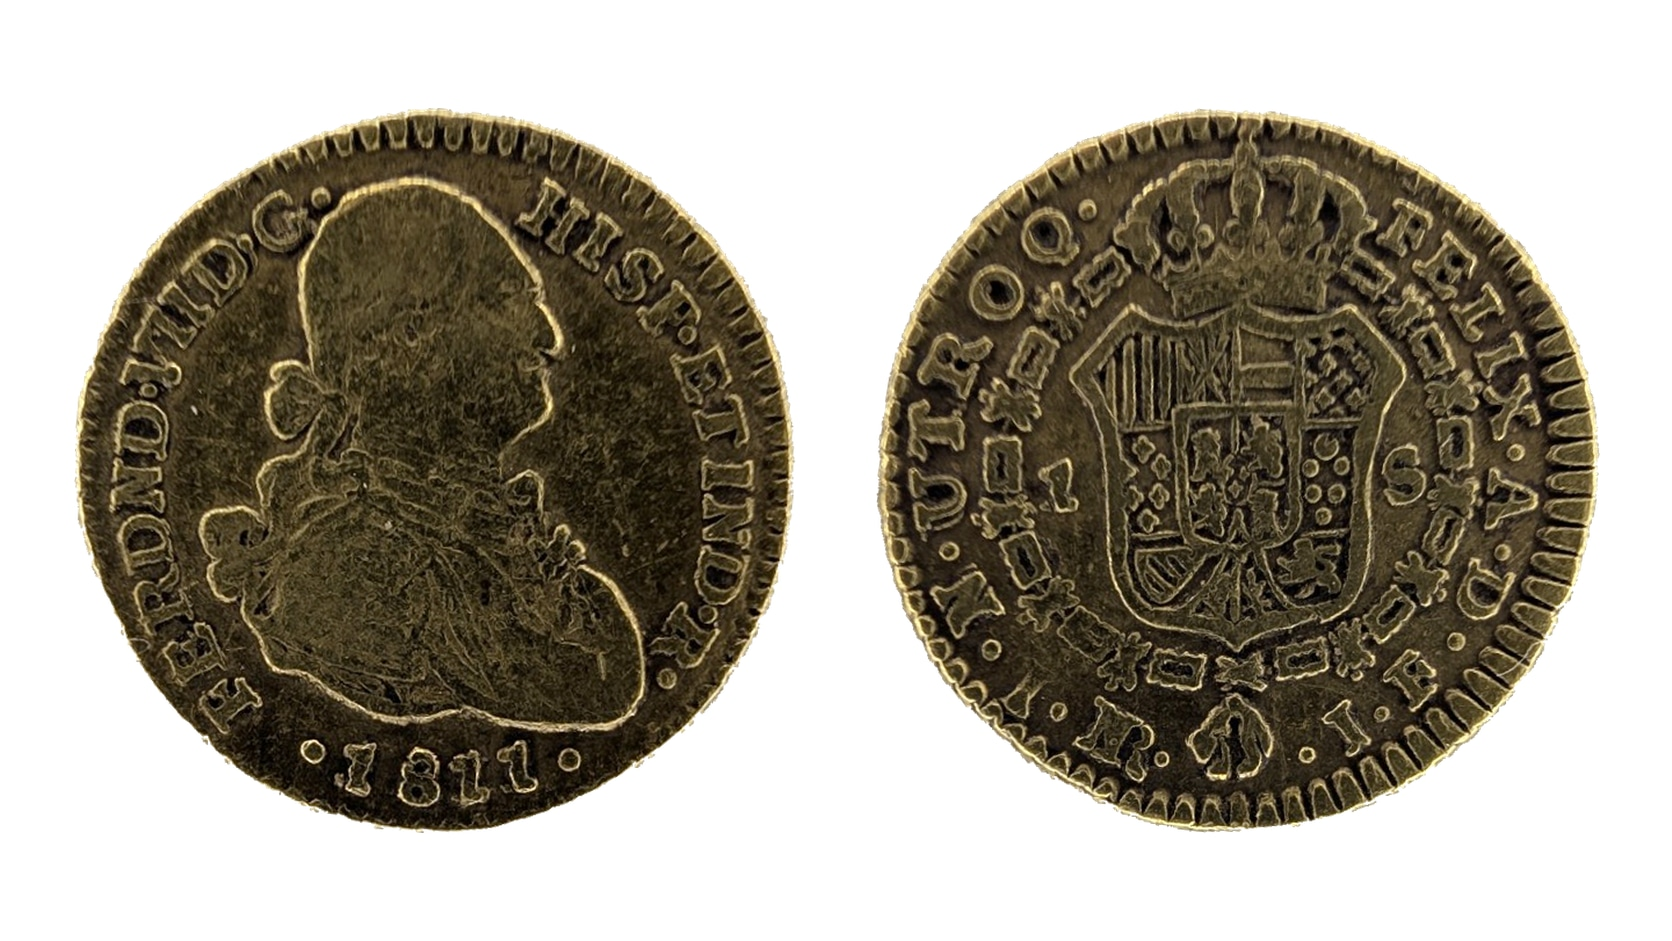
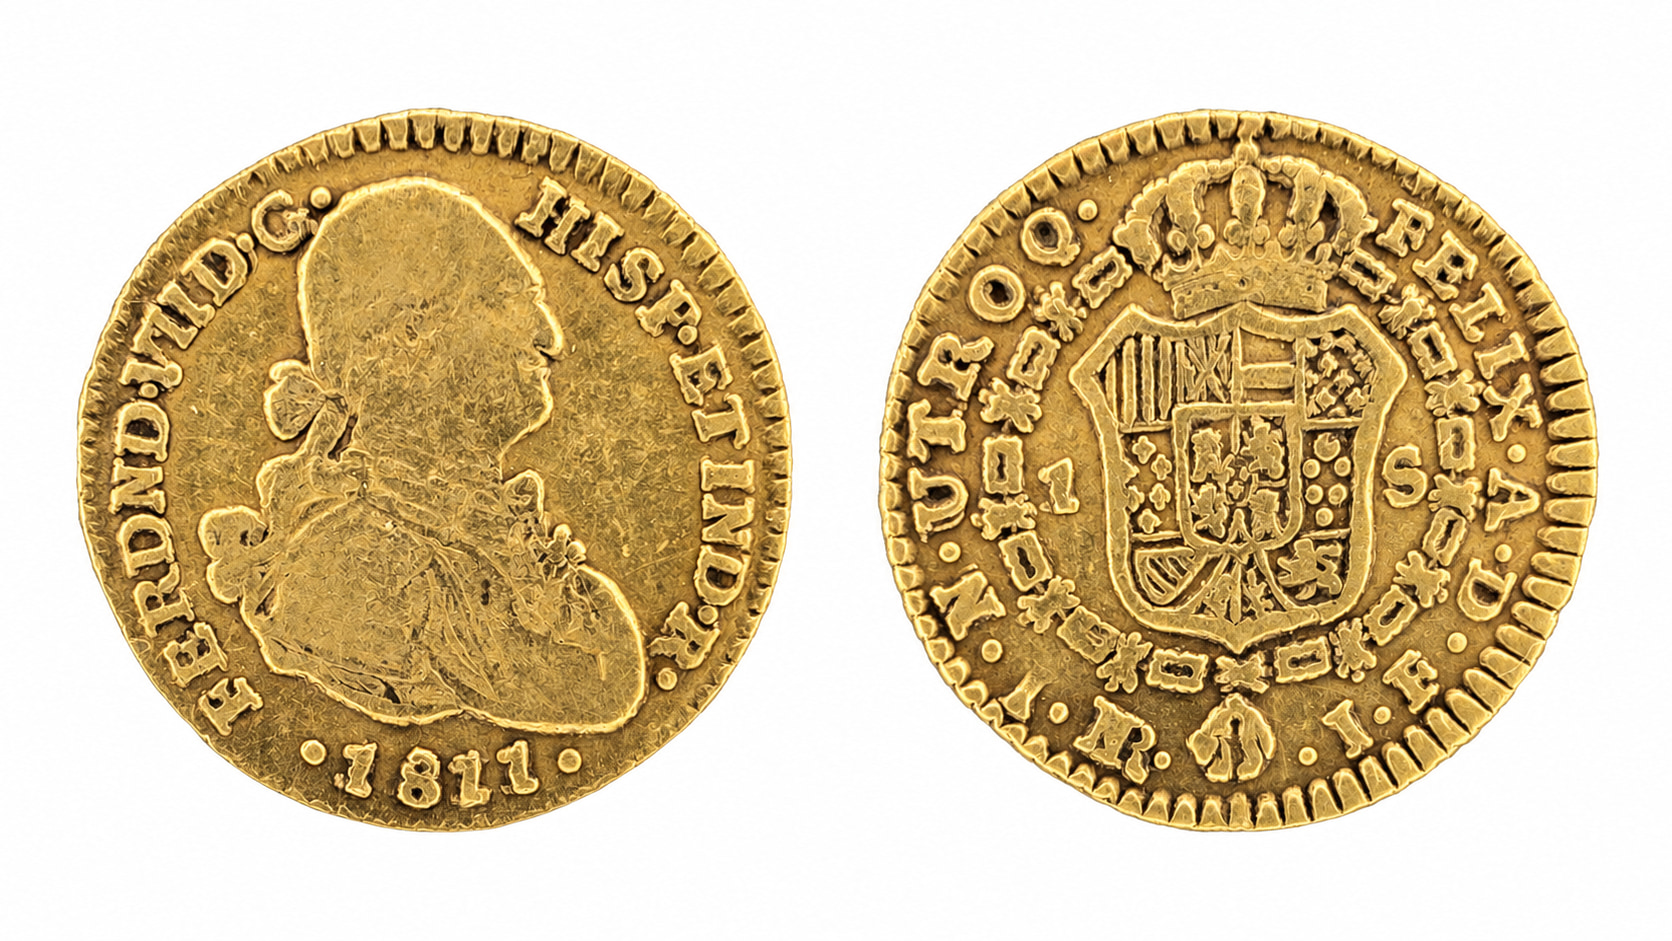
Replace the Bogotá 1811 NR–JF 1 escudo photographs.
Use the brighter side-by-side scan for the composite and for the centered anverso and reverso, and bust the catalog image cache.

diff --git a/src/lib/images.ts b/src/lib/images.ts
@@ -10,7 +10,7 @@ export const CATALOG_HERO_VERSION = '20260829';
  * Cloudflare Image Resizing keeps the previous file for hours; the query
  * forces the homepage card and the note srcset onto the new frame.
  */
-export const CATALOG_SCAN_VERSION = '20261024';
+export const CATALOG_SCAN_VERSION = '20261027';
 
 export function catalogAssetSrc(src: string, version: string = CATALOG_HERO_VERSION): string {
   if (!version || !src.startsWith('/')) return src;
